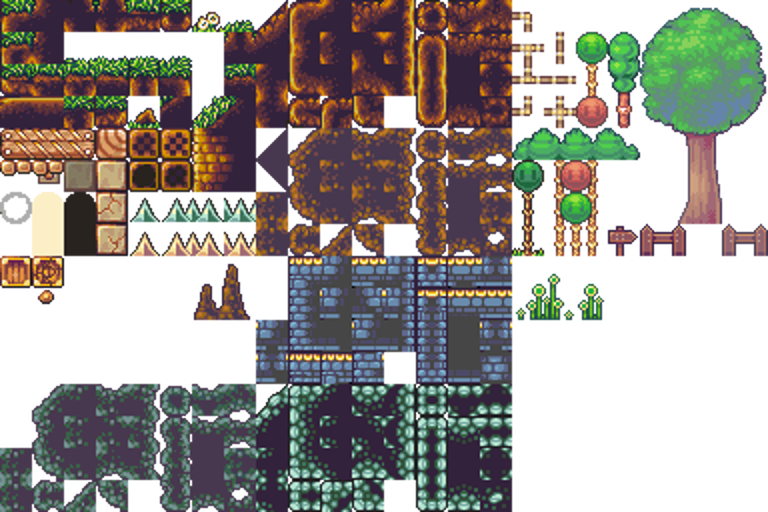
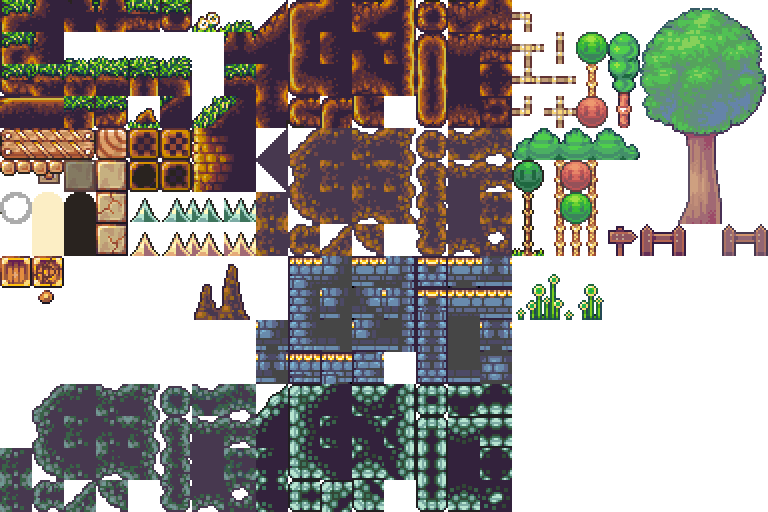
More tiledefs

diff --git a/src/map.rs b/src/map.rs
@@ -70,39 +70,165 @@ impl CellState {
                 );
                 match adjacent_tiles {
                     (
-                        true,  true,  _,
+                        _,     true,  _,
+                        true,         true,
+                        _,     true, _
+                    ) => {
+                        Some((13, 0, FlipContext::FlipNone))  // Standalone
+                    },
+                    (
+                        _,     true,  _,
+                        true,         true,
+                        _,     false, _
+                    ) => {
+                        Some((13, 1, FlipContext::FlipNone))  // Top nub
+                    },
+                    (
+                        _,     false,  _,
+                        true,         true,
+                        _,     false, _
+                    ) => {
+                        Some((13, 2, FlipContext::FlipNone))  // Vertical bar
+                    },
+                    (
+                        _,     false,  _,
+                        true,         true,
+                        _,     true, _
+                    ) => {
+                        Some((13, 3, FlipContext::FlipNone))  // Bottom nub
+                    },
+                    (
+                        _,     true,  _,
+                        true,         false,
+                        _,     true,  _
+                    ) => {
+                        Some((9, 3, FlipContext::FlipNone))  // Left nub
+                    },
+                    (
+                        _,     true,  _,
+                        false,        false,
+                        _,     true,  _
+                    ) => {
+                        Some((15, 1, FlipContext::FlipNone))  // Horizontal bar
+                    },
+                    (
+                        _,     true,  _,
+                        false,        true,
+                        _,     true,  _
+                    ) => {
+                        Some((9, 3, FlipContext::FlipHorizontal))  // Right nub
+                    },
+                    (
+                        _,     true,  _,
                         true,         false,
                         _,     false, false
                     ) => {
-                        Some((9, 0, FlipContext::FlipNone))
+                        Some((9, 0, FlipContext::FlipNone))  // Top-left
                     },
                     (
-                        _, true,  _,
-                        false,        false,
-                        false, false, false
+                        _,     false,  false,
+                        true,         false,
+                        _,     false, false
                     ) => {
-                        Some((14, 1, FlipContext::FlipNone))
+                        Some((9, 1, FlipContext::FlipNone))  // Left
                     },
                     (
-                        _,     true,  true,
+                        _,     false, false,
+                        true,         false,
+                        _,     true , _
+                    ) => {
+                        Some((9, 2, FlipContext::FlipNone))  // Bottom-left
+                    },
+                    (
+                        _,     true,  _,
                         false,        true,
                         false, false, _
                     ) => {
-                        Some((9, 0, FlipContext::FlipHorizontal))
+                        Some((9, 0, FlipContext::FlipHorizontal))  // Top-right
+                    },
+                    (
+                        false,  false, _,
+                        false,         true,
+                        false,  false, _
+                    ) => {
+                        Some((9, 1, FlipContext::FlipHorizontal))  // Right
+                    },
+                    (
+                        false, false, _,
+                        false,        true,
+                        _,     true,  _
+                    ) => {
+                        Some((9, 2, FlipContext::FlipHorizontal))  // Bottom-right
+                    },
+                    (
+                        _, true,      _,
+                        _,            _,
+                        false, false, false
+                    ) => {
+                        Some((14, 1, FlipContext::FlipNone))  // Top
+                    },
+                    (
+                        false, false, false,
+                        _,            _,
+                        _, true,      _
+                    ) => {
+                        Some((14, 3, FlipContext::FlipNone))  // Bottom
+                    },
+                    (
+                        _,    true,   _,
+                        false,        false,
+                        false, false, true
+                    ) => {
+                        Some((11, 0, FlipContext::FlipHorizontal))  // T
+                    },
+                    (
+                        _,    true,  _,
+                        false,       false,
+                        true, false, false
+                    ) => {
+                        Some((11, 0, FlipContext::FlipNone))  // T
+                    },
+                    (
+                        true, false, false,
+                        false,       false,
+                        true, true,  false
+                    ) => {
+                        Some((11, 2, FlipContext::FlipNone))  // T
+                    },
+                    (
+                        false, false, true,
+                        false,        false,
+                        false, true,  true
+                    ) => {
+                        Some((11, 2, FlipContext::FlipHorizontal))  // T
                     },
                     (
                         true,  false, false,
                         false,        false,
                         false, false, false
                     ) => {
-                        Some((10, 0, FlipContext::FlipNone))
+                        Some((10, 0, FlipContext::FlipNone))  // Inside elbow top left
                     },
                     (
                         false, false, true,
                         false,        false,
                         false, false, false
                     ) => {
-                        Some((10, 0, FlipContext::FlipHorizontal))
+                        Some((10, 0, FlipContext::FlipHorizontal))  // Inside elbow top right
+                    },
+                    (
+                        false, false, false,
+                        false,        false,
+                        true, false, false
+                    ) => {
+                        Some((10, 2, FlipContext::FlipNone))  // Inside elbow bottom left
+                    },
+                    (
+                        false, false, false,
+                        false,        false,
+                        false, false, true
+                    ) => {
+                        Some((10, 2, FlipContext::FlipHorizontal))  // Inside elbow bottom right
                     },
                     (
                         _, _, _,
